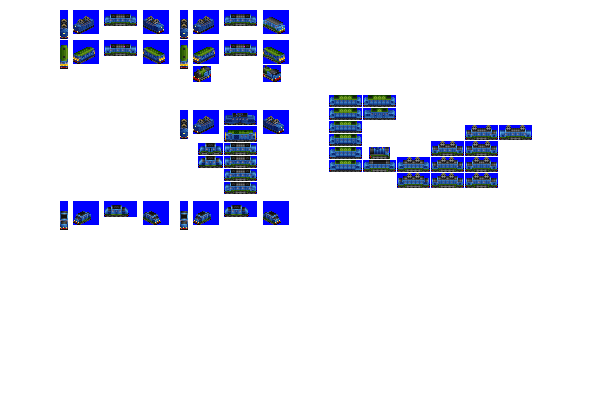
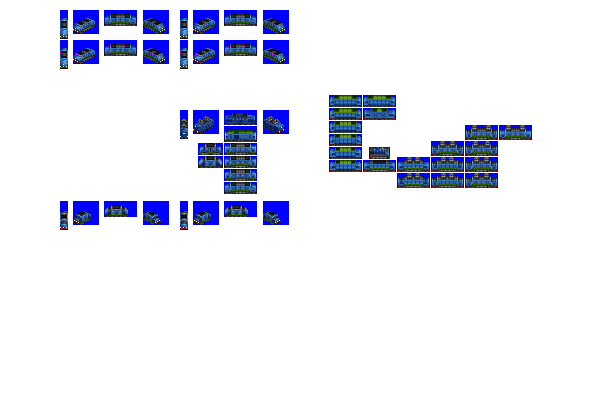
Change: Hurly Burly sprites complete

diff --git a/src/vehicles/hurly_burly.py b/src/vehicles/hurly_burly.py
@@ -13,7 +13,7 @@ def main(roster):
                             gen=2,
                             pantograph_type='diamond-double',
                             intro_date_offset=5,  # introduce later than gen epoch by design
-                            sprites_complete=False)
+                            sprites_complete=True)
 
     consist.add_unit(type=ElectricEngineUnit,
                      weight=90,
